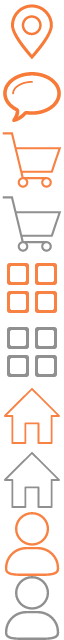
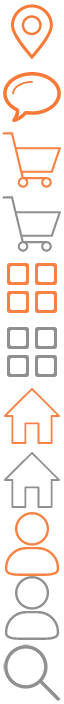
search-ico

Changed region(s): [[0.0312, 0.0, 0.9688, 1.0]]

diff --git a/assets/css/style.css b/assets/css/style.css
@@ -1,74 +1,81 @@
 
-body{
+body {
     background: #fff;
 }
 
-header{
+header {
     padding: 0 12px;
-    height:40px;
-    line-height:40px;
+    height: 40px;
+    line-height: 40px;
     text-align: center;
-    color:#f77a38;
+    color: #f77a38;
     background: #fdfcfa;
 }
 
-footer{
-    height:48px;
+footer {
+    height: 48px;
 }
 
-header a{
+header a {
     height: inherit;
     font-size: 17px;
-    color:#f77a38
+    color: #f77a38
 }
 
-.ico{
+.ico {
     position: relative;
-    top:6px;
+    top: 6px;
     display: inline-block;
     width: 28px;
-    height:28px;
+    height: 28px;
     background: url('../img/icons.png');
-    background-size:100% ;
+    background-size: 100%;
 }
 
-.ico-message{
+.ico-message {
     background-position: 0 -28px;
 }
 
-header .input-wrapper{
+.ico-search {
+    float: left;
+    width: 28px;
+    height: 28px;
+    background: url('../img/icons.png') 0 -280px;
+    background-size: 100%;
+}
+
+header .input-wrapper {
     width: 60%;
     margin-top: 4px;
     display: inline-block;
     height: 30px;
     background: #fff;
-    border: 1px solid#ddd;
+    border: 1px solid #ddd;
     border-radius: 4px;
 }
 
-header input{
-    width: 100%;
+header input {
     float: left;
     height: 30px;
     border: 0;
 }
 
-.swiper-container{
+.swiper-container {
     width: 640px;
     height: 310px;
 }
 
-.one{
+.one {
     background: url('../img/banner1.jpg');
     background-size: 100%;
 }
 
-.two{
+.two {
     background: url('../img/banner2.jpg');
     background-size: 100%;
 }
 
-.three{
+.three {
     background: url('../img/banner3.jpg');
     background-size: 100%;
 }

diff --git a/views/index.html b/views/index.html
@@ -17,6 +17,7 @@
 <header class="clearfix">
     <a href="" class="pull-left"><span class="ico ico-location pull-left"></span>上海</a>
     <div class="input-wrapper">
+        <span class="ico-search"></span>
         <input type="search" placeholder="搜索您想要找的商品">
     </div>
     <a href="" class="pull-right"><span class="ico ico-message"></span></a>
